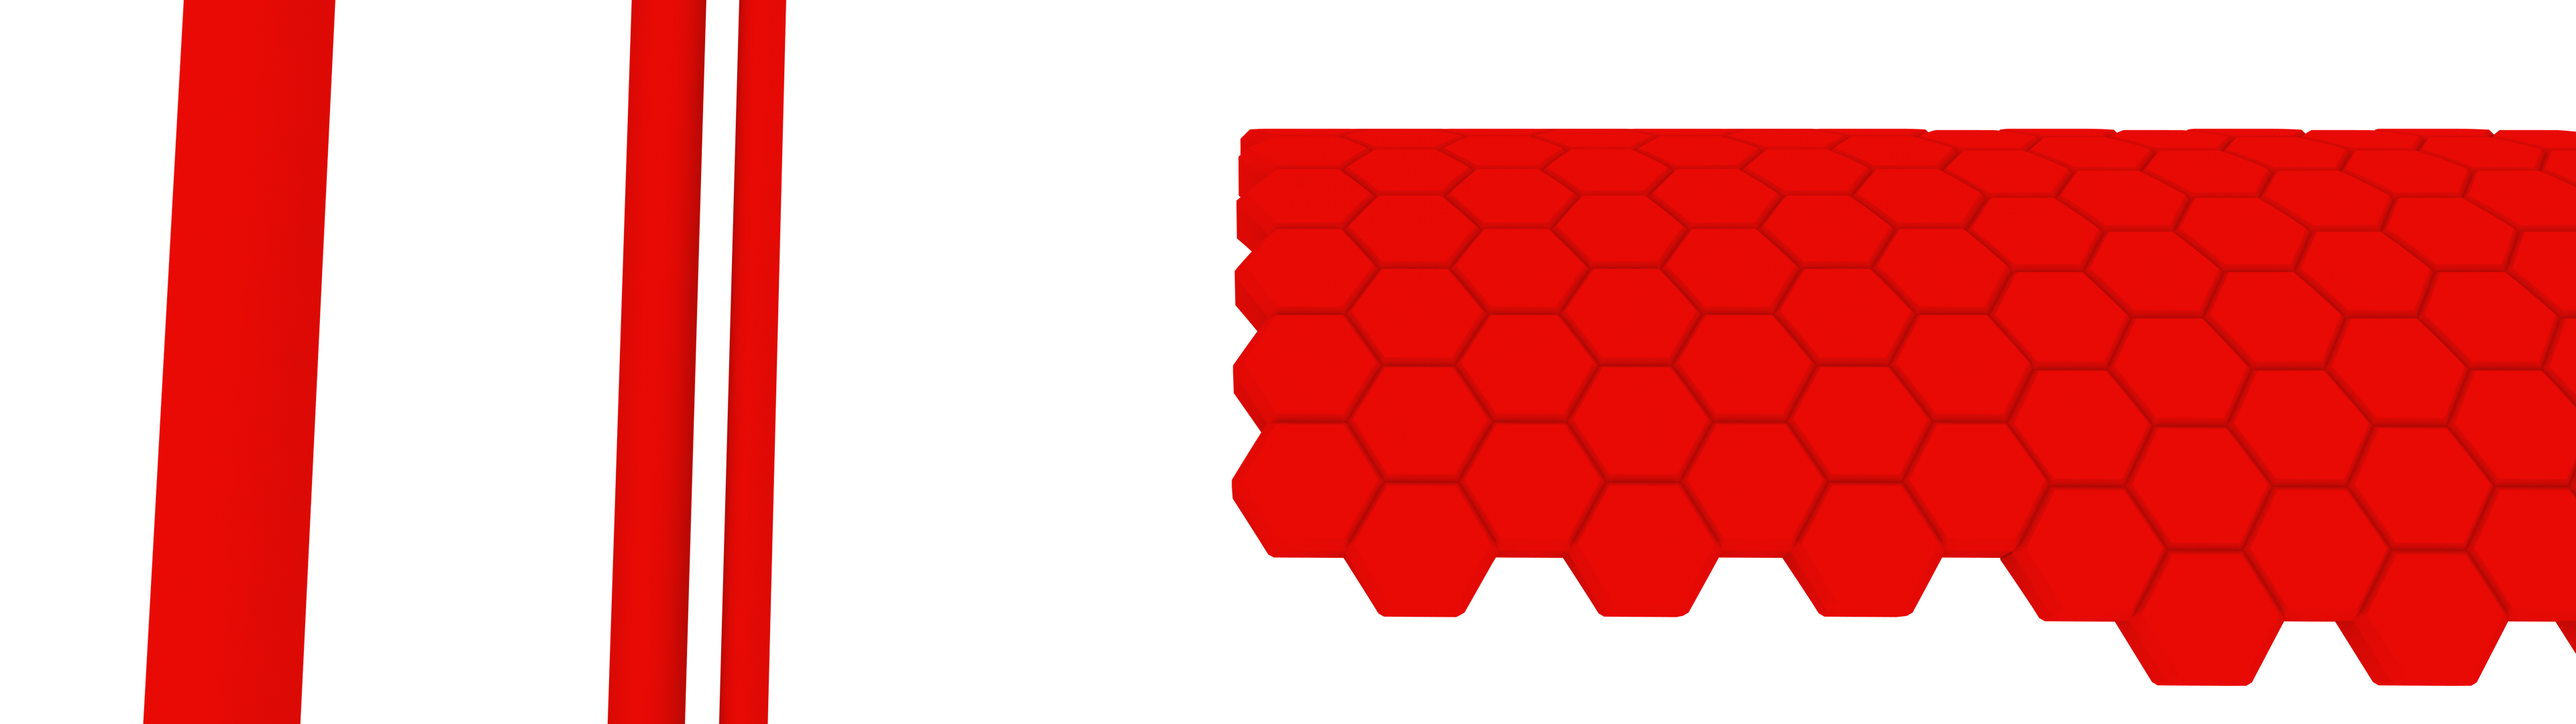
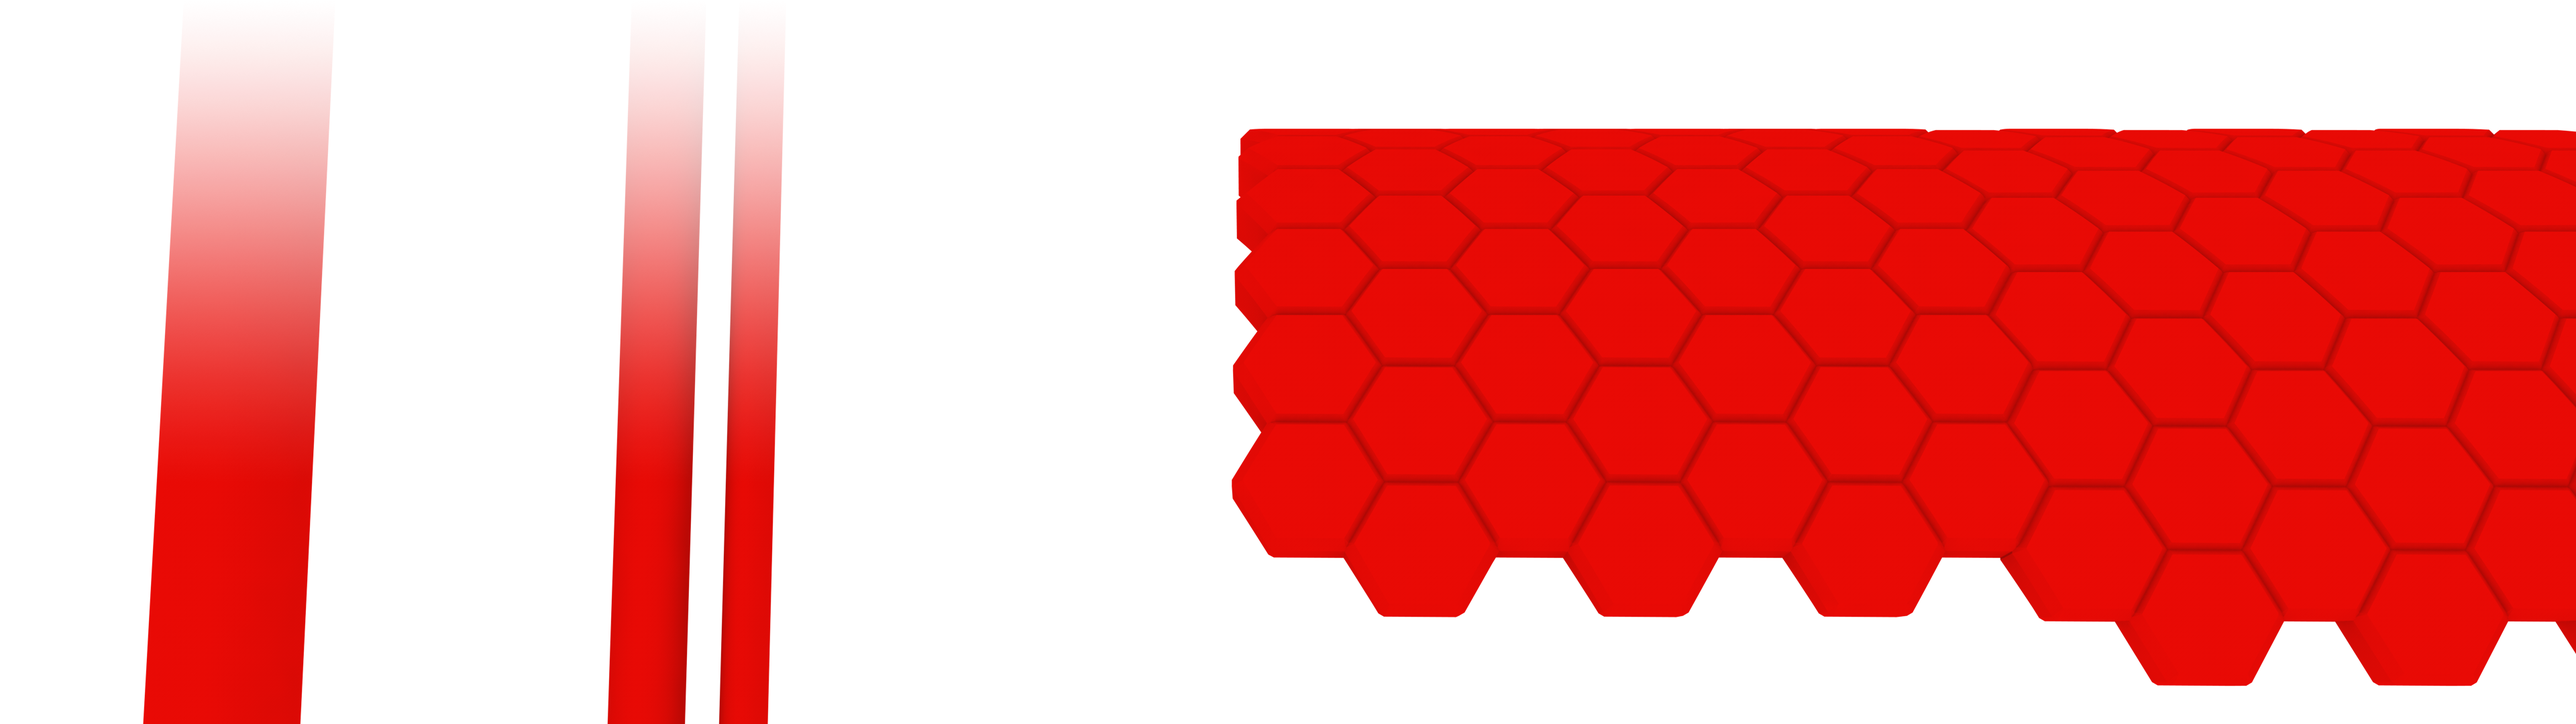
Biopolis Fixes
Revisions for Biopolis

Changed region(s): [[0.2188, 0.0, 0.3125, 0.5806], [0.0625, 0.0, 0.1562, 0.5806]]

diff --git a/public/biopolis/js/biopolis-cells.js b/public/biopolis/js/biopolis-cells.js
@@ -19,6 +19,10 @@ var biopolis_cells = (function($, createjs){
 	const CELL_RANGE = 200;
 	const RANGE_THRESHOLD = 30;
 
+	const BASE_HEIGHT = 1920;
+
+	const SCALEFACTOR_MIN = 0.75;
+
 	/******** STAGE OBJECTS *********/
 
 	var bioObjects = [];
@@ -40,11 +44,15 @@ var biopolis_cells = (function($, createjs){
 		prototype.local = null;
 		prototype.z = null;
 		prototype.update = function(dt, t) {
-			this.y = this.local.y + window.innerHeight - this.image.height;
-			this.x = (this.local.x + viewX) / this.z;
-		};
+
+			var globalY = window.innerHeight / stage.scaleY;
+			this.y = this.local.y + globalY - this.image.height;
+			this.x = (this.local.x + (viewX / stage.scaleY)) / this.z;
+
+		}
 
 		return createjs.promote(BioObject, "Bitmap");
+
 	})();
 
 	var Layer = (function() {
@@ -162,10 +170,10 @@ var biopolis_cells = (function($, createjs){
 
 	function create_layers()
 	{
-		new Layer("content/cells_prongs_blurred.png", -500,0,10);
+		new Layer("content/cells_prongs_blurred.png", 0,0,10);
 		new Layer("content/cells_lattice.png",		 -300,0,7);
 		new Layer("content/cells_prongs.png",		    0,0,4);
-		new Layer("content/cells_tube.png",			  900,0,2);
+		new Layer("content/cells_tube.png",			 1350,0,2);
 		new Layer("content/cells_trees.png",		  600,0,2);
 	}
 
@@ -173,20 +181,20 @@ var biopolis_cells = (function($, createjs){
 	{
 		var stretch = 1.65;
 
-		new Cell("content/character_BACTERIA.png",	4000 * stretch, -400, 1, 1.5);
-		new Cell("content/character_BLKBACTERIA.png",2200 * stretch, -350, 1);
-		new Cell("content/character_BRAINCELL.png",	1700 * stretch, -350, 1);
-		new Cell("content/character_FATCELL.png",	1000 * stretch, -800, 7, 0);
+		new Cell("content/character_BACTERIA.png",		3800 * stretch, -400, 1, 1.5);
+		new Cell("content/character_BLKBACTERIA.png",	2200 * stretch, -350, 1);
+		new Cell("content/character_BRAINCELL.png",		1700 * stretch, -350, 1);
+		new Cell("content/character_FATCELL.png",		1000 * stretch, -800, 7, 0);
 		new Cell("content/character_MUSCLECELL.png",	3300 * stretch, -250, 1);
 		new Cell("content/character_NEURONCELL.png",	1100 * stretch, -450, 1, 1);
-		new Cell("content/character_PLATELET.png",	1500 * stretch, -600, 1, 1);
-		new Cell("content/character_R_ROWAN.png",	120 * stretch,  -550, 1);
+		new Cell("content/character_PLATELET.png",		1500 * stretch, -600, 1, 1);
+		new Cell("content/character_R_ROWAN.png",		120 * stretch,  -550, 1);
 		new Cell("content/character_R_SCARLETT.png",	200 * stretch,  -430, 1);
-		new Cell("content/character_SKINCELLS.png",	1300 * stretch, -150, 1);
-		new Cell("content/character_VIRUS.png",		2900 * stretch, -450, 1, 2);
-		new Cell("content/character_W_BLANCHE.png",	750 * stretch,  -550, 1);
+		new Cell("content/character_SKINCELLS.png",		1300 * stretch, -150, 1);
+		new Cell("content/character_VIRUS.png",			2900 * stretch, -450, 1, 2);
+		new Cell("content/character_W_BLANCHE.png",		750 * stretch,  -550, 1);
 		new Cell("content/character_W_LIAM.png",		650 * stretch,  -350, 1);
-		new Cell("content/character_W_MAY.png",		500 * stretch,  -450, 1);
+		new Cell("content/character_W_MAY.png",			500 * stretch,  -450, 1);
 
 		stage.enableMouseOver();
 	}
@@ -199,7 +207,9 @@ var biopolis_cells = (function($, createjs){
 			var time = createjs.Ticker.getTime();
 
 			viewX -= detlaViewX * SCROLL_SPEED * deltaTime;
-			viewX = clamp(viewX, -MAX_X, MIN_X);
+
+			var maxX = MAX_X * stage.scaleY;
+			viewX = clamp(viewX, -maxX, MIN_X);
 			
 			bioObjects.forEach(function(bio){
 				bio.update(deltaTime, time);
@@ -259,7 +269,7 @@ var biopolis_cells = (function($, createjs){
 		create_cells();
 		create_update_loop();
 
-		resize();
+		setTimeout(resize, 250);
 	}
 
 	function resize()
@@ -268,6 +278,24 @@ var biopolis_cells = (function($, createjs){
 			canvas.width = window.innerWidth;
 			canvas.height = window.innerHeight;
 		}
+
+		var bg = bioObjects[0];
+		var bounds = bg.getBounds();
+		if (!bounds)
+			return;
+
+		var fX = window.innerWidth / bounds.width;
+		var fY =  window.innerHeight / bounds.height;
+
+		scaleFactor = Math.max(fX, fY);
+		if (scaleFactor < SCALEFACTOR_MIN)
+			scaleFactor = SCALEFACTOR_MIN;
+
+		stage.scaleX = scaleFactor;
+		stage.scaleY = scaleFactor;
+
+		stage.update();
+
 	}
 
 	return {

diff --git a/public/biopolis/js/biopolis-navigation.js b/public/biopolis/js/biopolis-navigation.js
@@ -68,7 +68,7 @@ var biopolis_navigation = (function($){
 		$music = $("#music");
 		audio = $music.find("audio")[0];
 		$music.click(function() {
-			if (!audio_is_playing())
+			if (audio.paused)
 				audio.play();
 			else
 				audio.pause();
@@ -76,19 +76,14 @@ var biopolis_navigation = (function($){
 			set_audio_icon();
 		});
 
-		setTimeout(set_audio_icon, 250);
+		setTimeout(set_audio_icon, 300);
 
 		audio.volume = 0.15;
 	}
 
-	function audio_is_playing()
-	{
-		return !audio.paused && audio.duration > 0;
-	}
-
 	function set_audio_icon()
 	{
-		var playing = audio_is_playing();
+		var playing = !audio.paused;
 		var css_value = "url('images/audio_icon" + (!playing ? "_disabled" : "") + ".png')";
 		$music.css("background", css_value);
 	}
@@ -189,7 +184,8 @@ var biopolis_navigation = (function($){
 		pane_click_receivers();
 		music_handling();
 
-		go_home();
+		go_cells();
+	//	$music.remove();
 
 		$(document).resize(resize);
 
@@ -200,6 +196,8 @@ var biopolis_navigation = (function($){
 	{
 		if (scrollbar)
 			scrollbar.update();
+
+
 	}
 
 	return {

diff --git a/public/biopolis/styles/style.css b/public/biopolis/styles/style.css
@@ -257,19 +257,22 @@ body {
 ****************************************/
 
 #chloe_character {
-  position: absolute;
-  top: 0px;
-  left: 0px;
-  width: 100%;
-  height: 100%;
-  z-index: -1;
-
-  display: flex;
-  align-items: flex-end;
-  justify-content: center;
-
-  overflow: hidden;
+    position: fixed;
+    top: 50%;
+    left: 50%;
+    min-width: 100%;
+    min-height: 100%;
+    width: auto;
+    height: auto;
+    z-index: -100;
+    -ms-transform: translateX(-50%) translateY(-50%);
+    -moz-transform: translateX(-50%) translateY(-50%);
+    -webkit-transform: translateX(-50%) translateY(-50%);
+    transform: translateX(-50%) translateY(-50%);
+    background: url(polina.jpg) no-repeat;
+    background-size: cover; 
 }
+
 
 /***************************************
   ==== CELLS
@@ -335,10 +338,6 @@ body {
 
 .biopolis_episode_writeup {
   margin-left: 40px;
-}
-
-.biopolis_team_writeup {
-  font-size: 14px;
 }
 
 .biopolis_team_writeup img {

diff --git a/public/biopolis/biopolis.html b/public/biopolis/biopolis.html
@@ -34,9 +34,9 @@
     <div id="more">
     </div>
 
-    <div id="chloe_character">
-      <video src="content/chloe_looping_flare.mp4" loop autoplay></video>
-    </div>
+    <video id="chloe_character" loop autoplay poster="images/chloe_mobile_still.png">
+      <source src="content/chloe_looping_flare.mp4"></source>    
+    </video>
 
     <div id="music"> 
       <audio autoplay loop>

diff --git a/public/biopolis/content/pane_more.html b/public/biopolis/content/pane_more.html
@@ -50,7 +50,6 @@
             <div>
               <div>
                 <h1 class="biopolis_writeup_title" style="display:inline">The Team</h1>
-                <span>contact [email] [phone] for more information</span>
               </div>
               <div class="biopolis_team_writeup">
                 <img src="images/kazoo_brain_logo.png"></img>

diff --git a/public/biopolis/m.biopolis.html b/public/biopolis/m.biopolis.html
@@ -34,11 +34,11 @@
     </div>
 
     <div id="music"> 
-      <audio loop>
-         <source src="content/biopolis_groove.aac" type="audio/aac" loop></source>
+      <audio autoplay loop>
+         <source src="content/biopolis_groove.mp3" type="audio/mpeg" loop></source>
       </audio>
     </div>
-
+    
     <div id="chloe_character">
     </div>
 

diff --git a/public/biopolis/styles/m.style.css b/public/biopolis/styles/m.style.css
@@ -310,10 +310,6 @@ body {
   margin-left: 20px;
 }
 
-.biopolis_team_writeup {
-  font-size: 10px;
-}
-
 .biopolis_team_writeup img {
   width: 100px;
   height: 90px;
